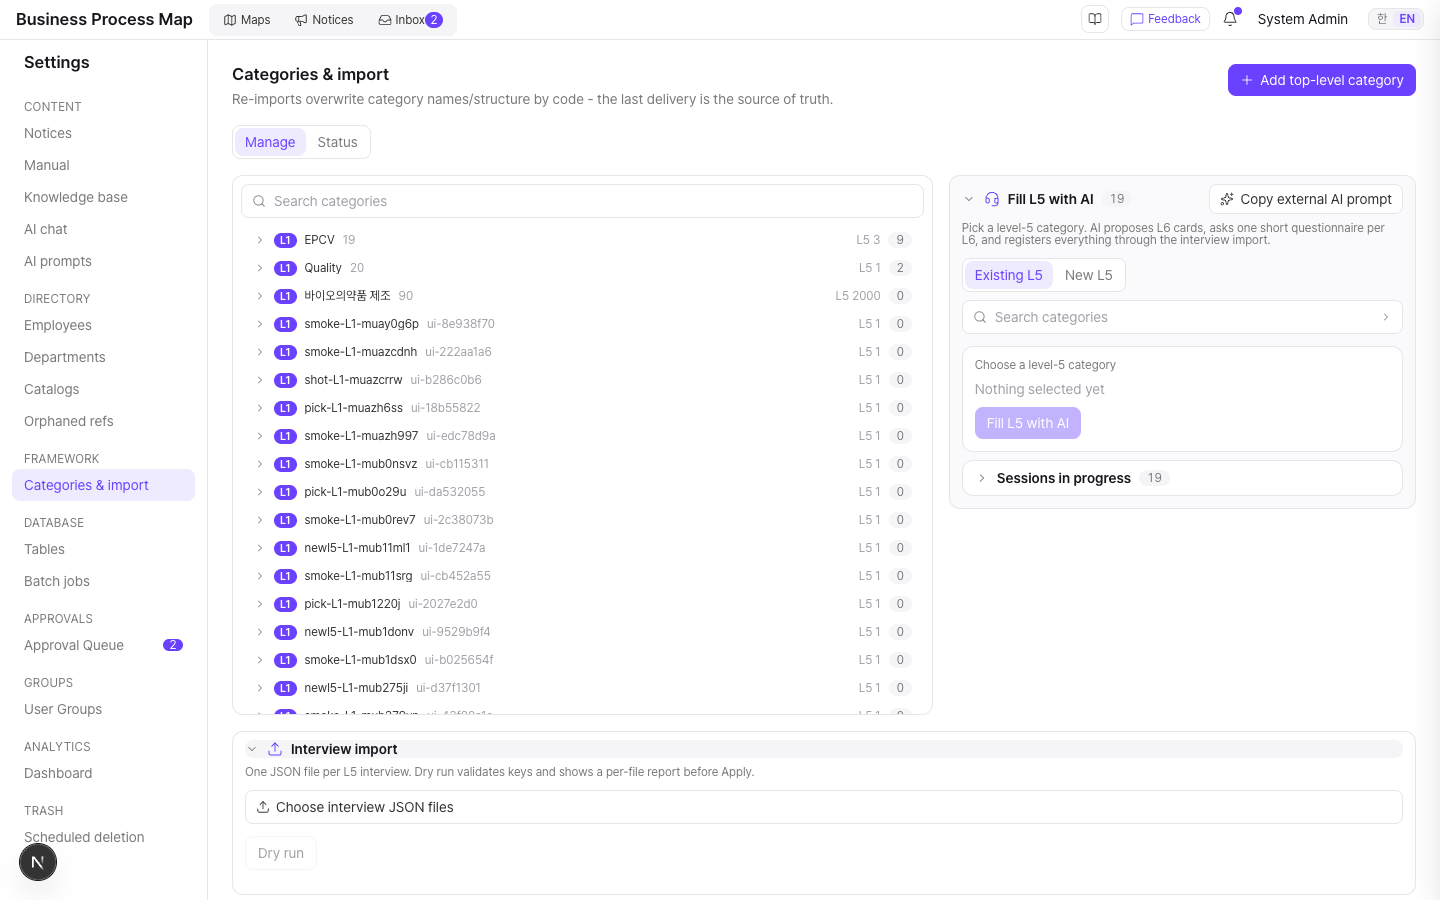
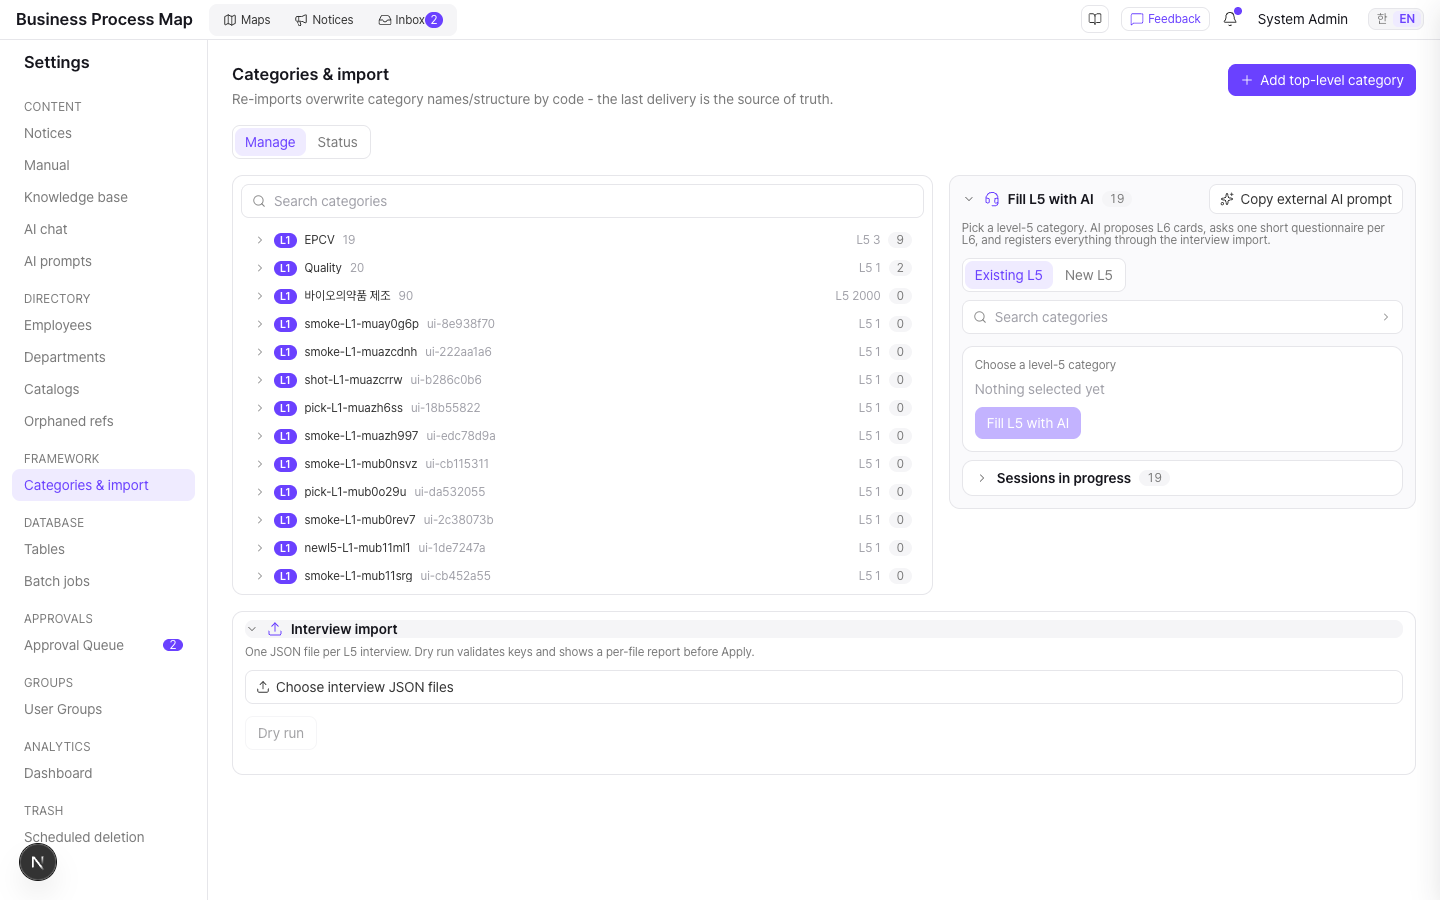
fix(admin): cap the category tree at a fixed 420px box — 카테고리 트리 상자를 고정 420px로 축소
The tree still filled most of the viewport at 60vh. A fixed box with the
existing inner scroll keeps the Manage view short regardless of screen
height.

Claude-Session: https://claude.ai/code/session_01Cp6z7UQxkS4JyPnK2oo8Q2

Changed region(s): [[0.1875, 0.6533, 0.5312, 0.9022], [0.5938, 0.7156, 0.625, 0.7467], [0.5938, 0.6533, 0.625, 0.6844]]

diff --git a/frontend/src/components/admin/framework-panel.tsx b/frontend/src/components/admin/framework-panel.tsx
@@ -734,8 +734,8 @@ export function FrameworkPanel({ onToast, scopeRootIds }: FrameworkPanelProps) {
         <>
       {/* 복수열 — 좌: 카테고리 트리, 우: 아코디언 섹션(캠페인 진입·진행 중 세션·인터뷰 임포트). 리포트는 그리드 아래 전폭 */}
       <div className="grid grid-cols-1 gap-4 xl:grid-cols-[minmax(0,3fr)_minmax(380px,2fr)]" data-id="framework-manage-grid">
-      {/* 트리도 상한 높이 안에서 내부 스크롤 — L1이 수십 개여도 페이지가 늘어나지 않는다(60vh, 사용자 지적 2026-09-22) */}
-      <div data-id="framework-admin-tree" className="fw-tree scroll-soft max-h-[60vh] self-start overflow-y-auto rounded-md border border-hairline p-2">
+      {/* 트리는 420px 상자 안에서 내부 스크롤 — L1이 수십 개여도 페이지가 늘어나지 않는다(뷰포트 비율 대신 고정, 사용자 지적 2026-09-22) */}
+      <div data-id="framework-admin-tree" className="fw-tree scroll-soft max-h-[420px] self-start overflow-y-auto rounded-md border border-hairline p-2">
         {!scopeRootIds && (
           <label className="mb-2 flex min-w-0 items-center gap-2 rounded-sm border border-hairline bg-surface px-2.5 py-1.5 text-caption text-ink">
             <Search size={14} strokeWidth={1.5} className="shrink-0 text-ink-tertiary" />

diff --git a/PROGRESS.md b/PROGRESS.md
@@ -5,7 +5,7 @@
 
 ## 2026-09-21 — AI 컨설턴트 L5 캠페인 (feat/ai-consultant-l5 → dev 머지)
 
-- **진입 피커 드롭다운화 + 섹션 높이 재조정(dev, 09-22):** [AI로 L5 채우기]가 트리 높이만큼 길어진다는 지적 → `FrameworkCascadePicker variant="dropdown"`(검색 상자만 자리, 트리는 상자 클릭/포커스 시 body 포털 fixed 패널 z 1350, 고르면 닫힘·Esc·바깥 클릭 닫힘, 아래 공간 부족 시 패널 축소). consult maxHeight 640→480·import 900→720·트리 70vh→60vh. [인터뷰 임포트]는 접힘/펼침 모두 그리드 아래 전폭(이전 공유 캡처가 옛 배치였음). `pw-fw-admin-layout-shot.mjs`(휴지 상태·드롭다운·임포트 펼침 3장).
+- **진입 피커 드롭다운화 + 섹션 높이 재조정(dev, 09-22):** [AI로 L5 채우기]가 트리 높이만큼 길어진다는 지적 → `FrameworkCascadePicker variant="dropdown"`(검색 상자만 자리, 트리는 상자 클릭/포커스 시 body 포털 fixed 패널 z 1350, 고르면 닫힘·Esc·바깥 클릭 닫힘, 아래 공간 부족 시 패널 축소). consult maxHeight 640→480·import 900→720·좌측 트리 70vh→고정 420px(내부 스크롤). [인터뷰 임포트]는 접힘/펼침 모두 그리드 아래 전폭(이전 공유 캡처가 옛 배치였음). `pw-fw-admin-layout-shot.mjs`(휴지 상태·드롭다운·임포트 펼침 3장).
 - **Categories & import 복수열+아코디언(dev):** Manage 뷰를 좌 트리 / 우 아코디언 열(`admin-section.tsx`: 헤더 건수 배지·힌트·액션 슬롯·0fr→1fr 전환·localStorage 펼침 기억)로 재구성. 우측은 [AI로 L5 채우기](배지=진행 세션 수, 안에 [진행 중 세션] 접힘 아코디언) + [인터뷰 임포트](배지=파일 수). 모든 섹션 **기본 접힘**, 본문은 `maxHeight`(consult 640·sessions 240·import 900·기본 520) 안에서 내부 스크롤(overflow-hidden), 트리도 70vh 상한 내부 스크롤. [인터뷰 임포트]는 파일 선택·dry run·리포트까지 한 섹션으로 그리드 **아래 전폭**(리포트 2단이 폭을 다 써야 읽힘).
 - **진입 카드 새 L5 모드 + 계단식 UI(dev):** 공용 `framework-cascade-picker.tsx`(탐색 모달의 계단식 규칙: lazy 트리 엔진·가이드 라인·레벨 필·조상 호버·accordion·검색 히트=체인 펼침, "이동" 대신 "선택") 신설. 진입 카드는 [기존 L5 | 새 L5] 세그먼트 — 새 L5는 L4 선택+이름 입력 → `createCategory`→세션 생성. 관리 트리도 같은 계단식 스타일(레벨 필·가이드 라인·accordion 모션·검색→체인 펼침+강조)로 재구성, 행 액션은 유지. 스모크 `pw-fw-consult.mjs` 12/12(피커 경유)·`pw-fw-consult-new-l5.mjs` 4/4.
 - **연결·등록 단계 UX(dev):** 연결 화면을 좌 L5 미리보기(전체 높이) / 우 패널(L6 카드별 미리보기·답 고쳐 다시 그리기, entry·edges 표는 카드 이름으로, 분기/루프 조건은 별도 행)로 재구성. `POST .../tasks/{id}/reopen`(drawn→ready, 설문·답 유지, 세션 plan_locked로) · `POST .../reopen-relations`(ready→linking)로 뒤로 가기. 등록 단계는 진입 즉시 dry run 자동 실행 + [연결 단계로 돌아가기].
